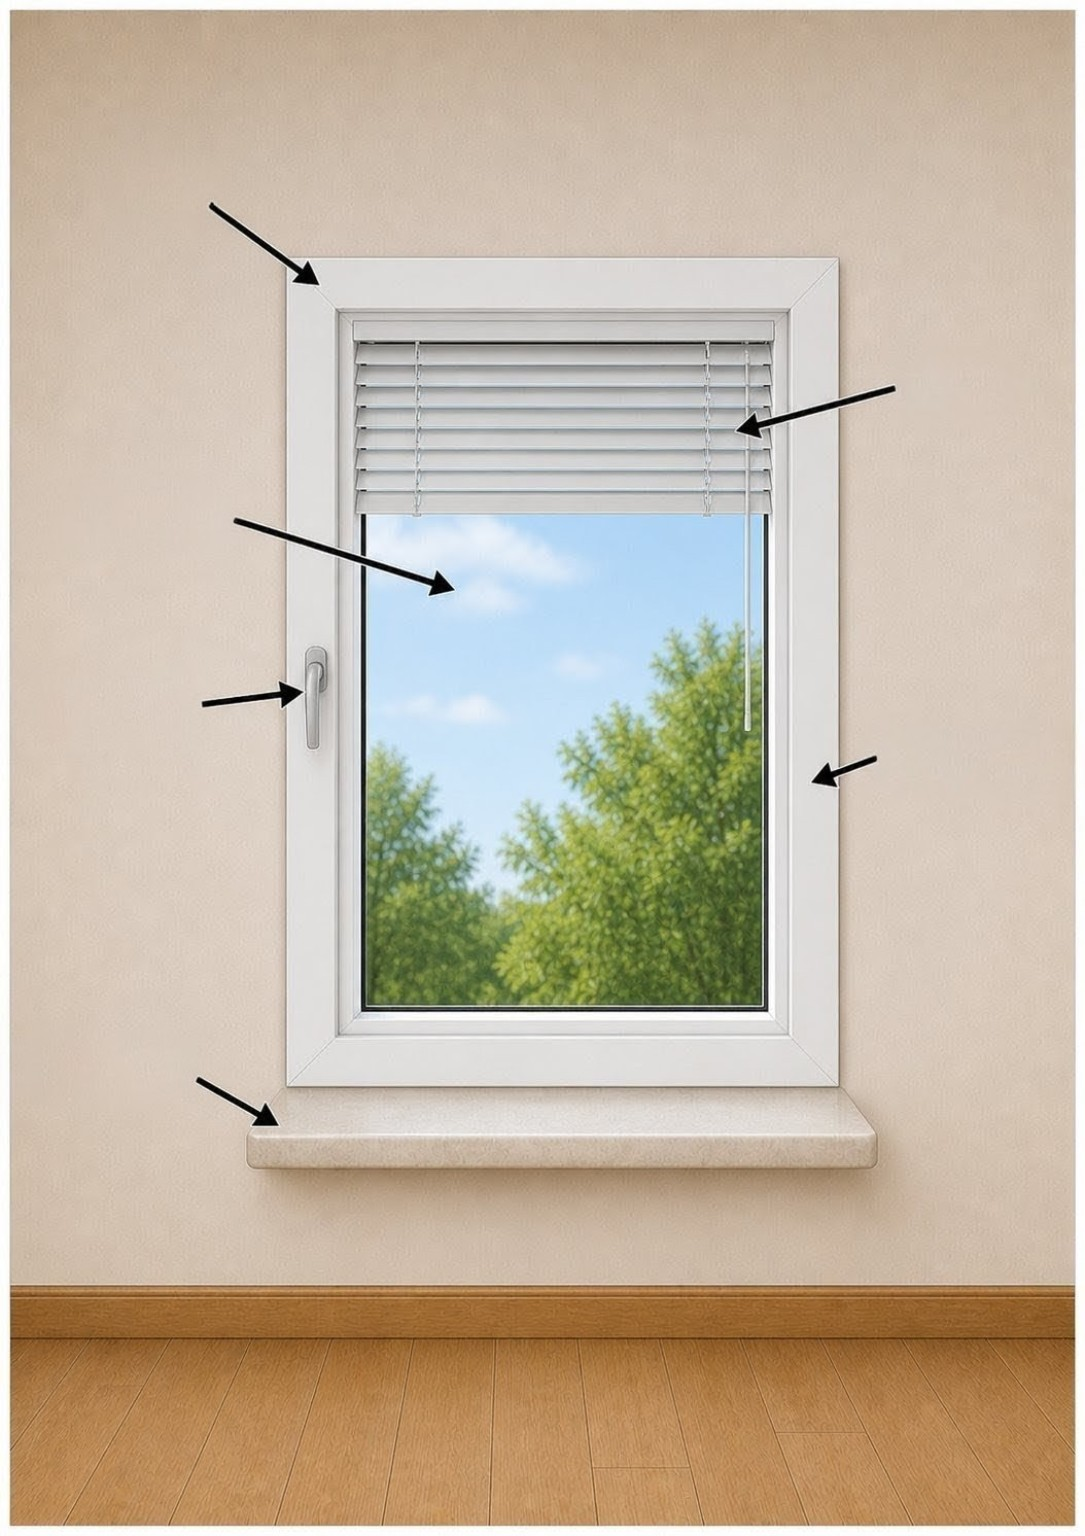
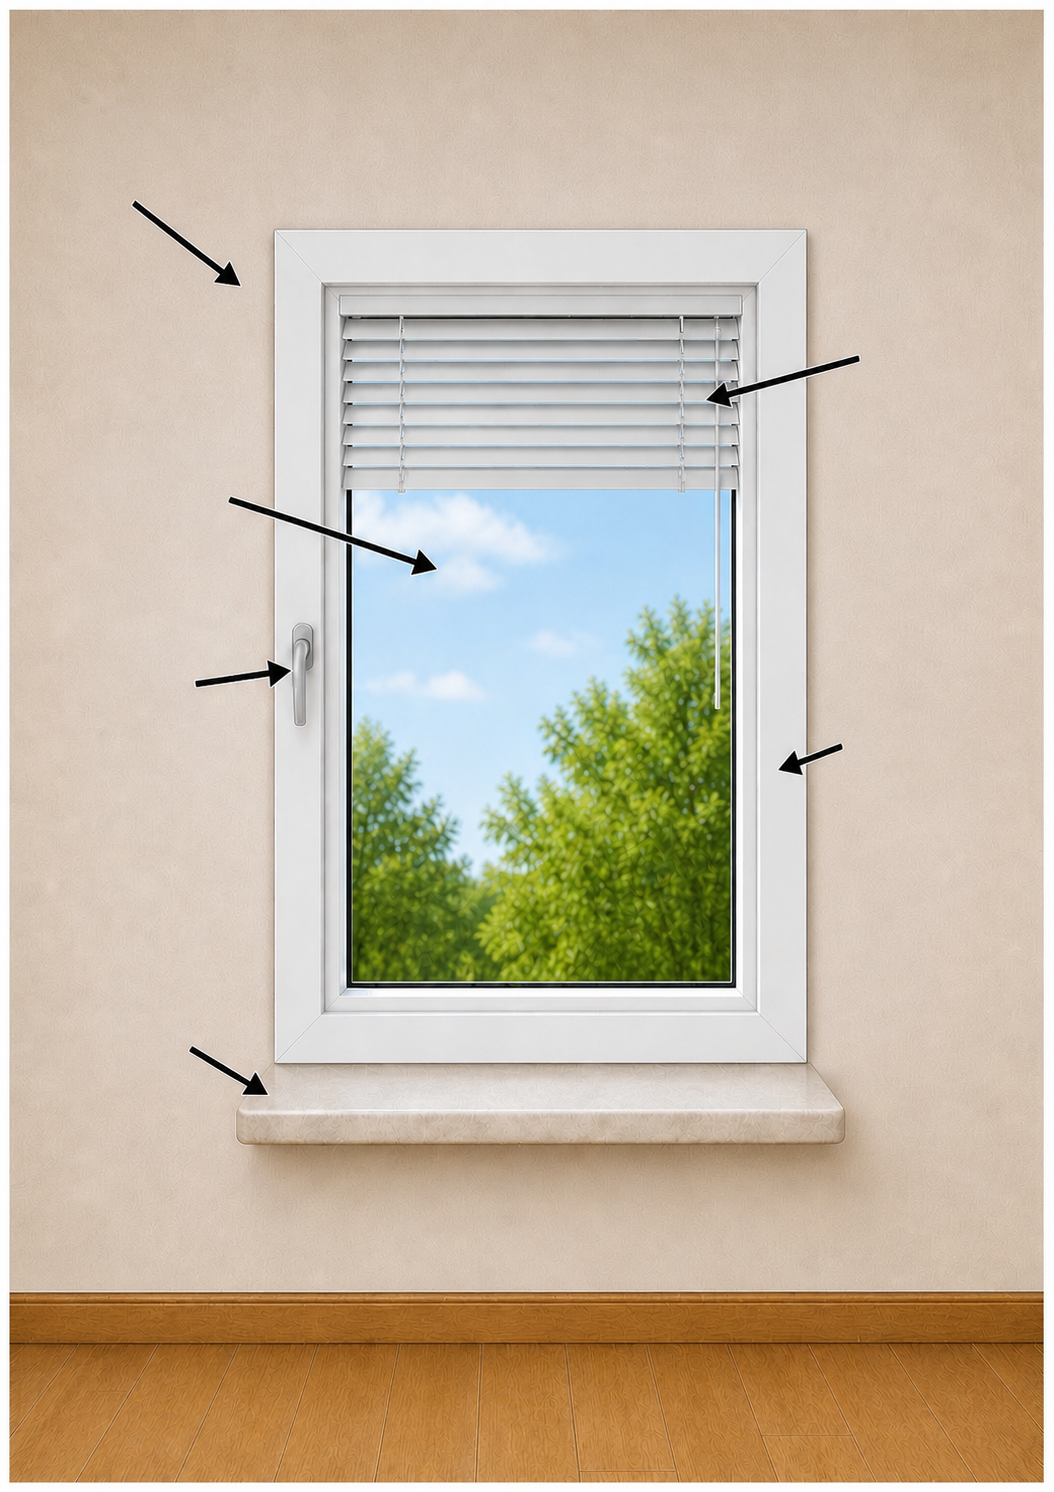
Aktualisiere zimmer3 und passe Hotspots an

Changed region(s): [[0.1518, 0.1233, 0.8197, 0.8016], [0.0, 0.8324, 1.0, 1.0], [0.1214, 0.1233, 0.1518, 0.1542]]

diff --git a/bilder-daten.js b/bilder-daten.js
@@ -399,12 +399,12 @@ window.APP_FOLDERS = {
         title: "Las habitaciones – Bild 3",
         file: "zimmer3.png",
         hotspots: [
-          { wort: "el marco", clickX: 49.8, clickY: 28.2, labelX: 32, labelY: 18.5, areaW: 54, areaH: 58 },
-          { wort: "la veneciana", clickX: 51.0, clickY: 28.0, labelX: 76.5, labelY: 22, areaW: 39, areaH: 17 },
-          { wort: "el cristal", clickX: 49.5, clickY: 54.0, labelX: 31.5, labelY: 44.5, areaW: 33, areaH: 35 },
-          { wort: "la ventana", clickX: 49.8, clickY: 45.0, labelX: 19, labelY: 34.5, areaW: 45, areaH: 48 },
-          { wort: "la manilla", clickX: 28.0, clickY: 50.0, labelX: 14.5, labelY: 46, areaW: 7, areaH: 10 },
-          { wort: "el alféizar", clickX: 38.5, clickY: 85.5, labelX: 24, labelY: 80.5, areaW: 42, areaH: 11 }
+          { wort: "el marco", clickX: 34.0, clickY: 20.5, labelX: 24, labelY: 15, areaW: 57, areaH: 57 },
+          { wort: "la veneciana", clickX: 68.8, clickY: 28.7, labelX: 80, labelY: 22.5, areaW: 39, areaH: 18 },
+          { wort: "el cristal", clickX: 41.0, clickY: 44.0, labelX: 26.5, labelY: 37, areaW: 35, areaH: 33 },
+          { wort: "la ventana", clickX: 76.0, clickY: 56.0, labelX: 82, labelY: 50, areaW: 50, areaH: 62 },
+          { wort: "la manilla", clickX: 26.2, clickY: 48.5, labelX: 15.5, labelY: 44.5, areaW: 6, areaH: 9 },
+          { wort: "el alféizar", clickX: 22.8, clickY: 77.2, labelX: 25, labelY: 72.5, areaW: 43, areaH: 11 }
         ]
       },
       {
